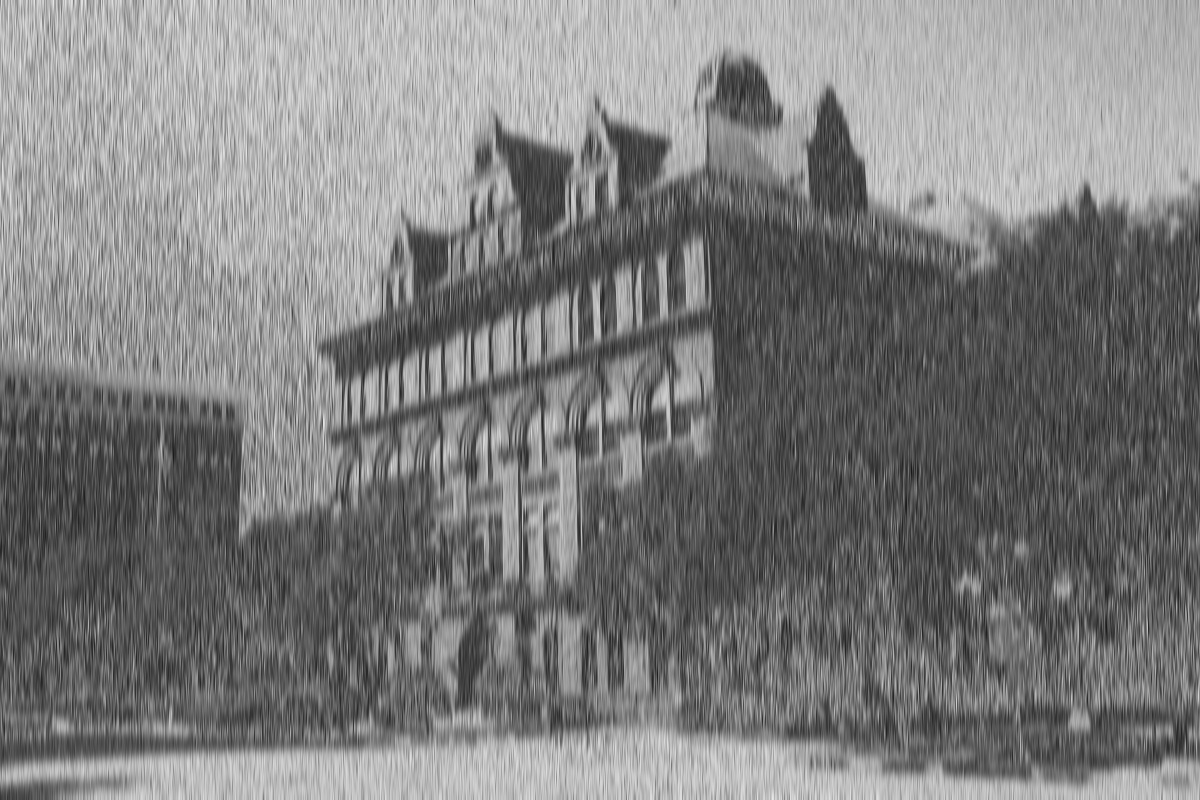
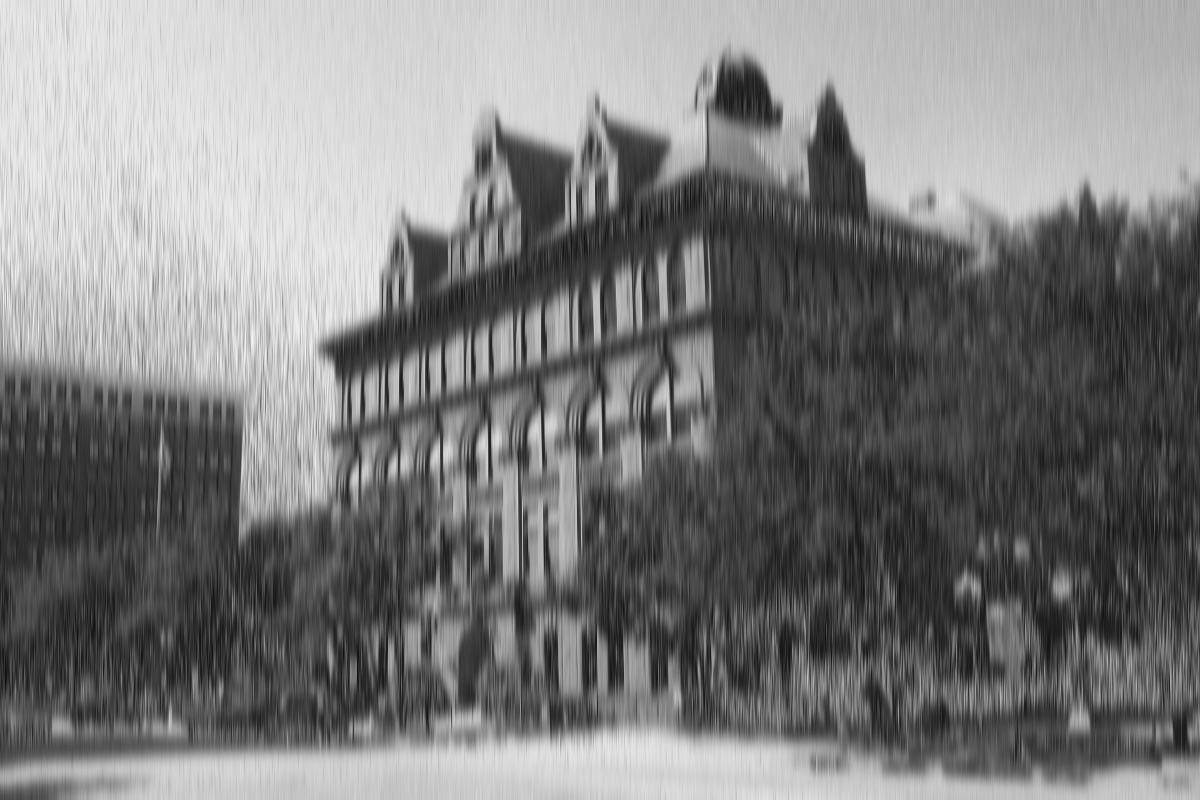
Added Tkinter slide bar to adjust kernel size and sigma for the noise and filter

diff --git a/Gaussian_Filter/Noise_Removal.py b/Gaussian_Filter/Noise_Removal.py
@@ -1,17 +1,15 @@
 import numpy as np
 import cv2
 from matplotlib import pyplot as plt
-
+import threading
+from tkinter import *
 
 imageName = "PeoriaCityHall.JPG"
-
-#Remove noise hsize = 31, sigma = 5
-def removeNoiseGaussian(img, hsize=1023, sigma=5):
-    kernel = cv2.getGaussianKernel(hsize,sigma)
-    img = np.array(img, dtype=np.uint8)
-    img = cv2.filter2D(img, -1, kernel)
-    return img
-
+image = cv2.imread(imageName, 0)
+root = Tk()
+blurSigma = DoubleVar()
+noiseSigma = DoubleVar()
+kernelSize = IntVar()
 
 #Generate noise and add it to an image. The noise is from a random normal distribution. 
 def addGaussianNoise(img1, sigma):
@@ -21,27 +19,71 @@ def addGaussianNoise(img1, sigma):
     noise = noise.astype(int)
     return img1 + noise
 
-image = cv2.imread(imageName, 0)
-print("Shape image 1; " + str(image.shape))
 noisyImage = addGaussianNoise(image,32)
-blurImage = removeNoiseGaussian(noisyImage)
+
+class filterThread (threading.Thread):
+    def __init__(self, threadID, name, counter):
+        threading.Thread.__init__(self)
+        self.threadID = threadID
+        self.name = name
+        self.counter = counter
+    def run(self):
+        displayFilter()
+
+
+#Remove noise hsize = 31, sigma = 5
+def removeNoiseGaussian(img, hsize=1023, sigma=5):
+    kernel = cv2.getGaussianKernel(hsize,sigma)
+    img = np.array(img, dtype=np.uint8)
+    img = cv2.filter2D(img, -1, kernel)
+    return img
+
+
+def displayFilter():
+    while(True):
+        noisyImage = addGaussianNoise(image,noiseSigma.get())
+        blurImage = removeNoiseGaussian(noisyImage,hsize=kernelSize.get(), sigma=blurSigma.get())
+        cv2.imshow( blurImageName, np.array(blurImage, dtype=np.uint8 ) )
+
+        if cv2.waitKey(1) & 0xFF == ord('q'):
+            cv2.destroyAllWindows()
+            cv2.imwrite(noisyImageName, noisyImage)
+            cv2.imwrite(blurImageName, blurImage)
+            break
+
+def showSlideBar():
+    bar1 = Scale(root, from_=1, to=70, orient=HORIZONTAL, variable=blurSigma, length=200)
+    bar2 = Scale(root, from_=1, to=70, orient=HORIZONTAL, variable=noiseSigma, length=200)
+    bar3 = Scale(root, from_=31, to=1023, orient=HORIZONTAL, variable=kernelSize, resolution=2, length=200)
+
+    bar1.pack()
+    bar2.pack()
+    bar3.pack()
+
+    bar1 = Label(root, text= "Blur Sigma Adjustment (Top)")
+    bar2 = Label(root, text= "Noise Sigma Adjustment (Middle)")
+    bar3 = Label(root, text= "Kernel Size Adjustment (Bottom)")
+    
+    bar3.pack()
+    bar2.pack()
+    bar1.pack()
+    root.mainloop()
+
 
 noisyImageName = imageName[:-4] + "_noisy.jpg"
 blurImageName = imageName[:-4] + "_blur.jpg"
 
-cv2.imwrite(noisyImageName, noisyImage)
-cv2.imwrite(blurImageName, blurImage)
+#display()
+thread1 = filterThread(1, "display thread", 1)
 
-fig = plt.figure(figsize=plt.figaspect(0.5))
-ax = fig.add_subplot(1,2,1, projection='3d')
+try:
+    #theading.Thread(target=display).start()
+    thread1.start()
+    showSlideBar()
+    thread1.join()
+except:
+    print("Error: unable to start thread")
 
 
-
-
-cv2.imshow( noisyImageName, np.array(noisyImage, dtype=np.uint8 ) )
-cv2.imshow( blurImageName, np.array(blurImage, dtype=np.uint8 ) )
-cv2.imshow( imageName, np.array(image, dtype=np.uint8 ) )
-cv2.waitKey(0)
-cv2.destroyAllWindows()
 
 
